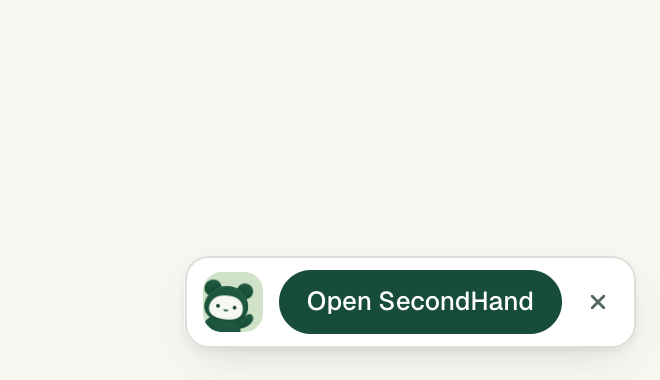
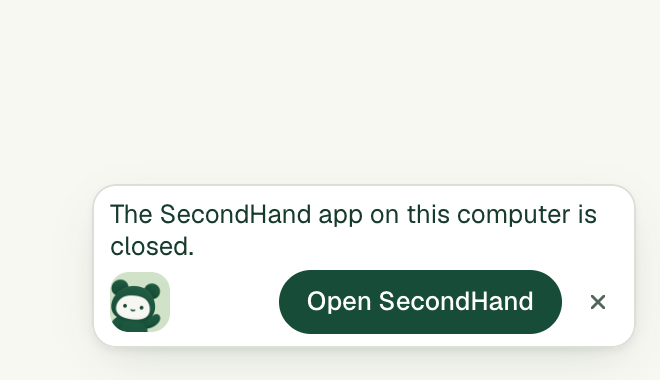
fix: say on the card that the app is locked or closed, as the side panel does
The locked and closed cards were a button alone. Two reviewers didn't know
what "Open SecondHand" meant on SecondHand's own card, or what was locked. The
card now says the side panel's sentence ("The SecondHand app on this computer is
locked." / "... is closed.") beside the button, and the locked card's button is
the side panel's "Unlock" instead of "Unlock SecondHand".

Changed region(s): [[0.1515, 0.6079, 0.9697, 0.9263], [0.1515, 0.5211, 0.9091, 0.6079], [0.1818, 0.4632, 0.9394, 0.4921]]

diff --git a/extension/strings.js b/extension/strings.js
@@ -24,7 +24,6 @@
     'widget.autofill': 'Autofill',
     'widget.autofillIowaTitle': 'Autofill fills your saved answers and continues where SecondHand can. Check every answer, your Social Security number, and the home address it picks before submitting.',
     'widget.autofillSiteTitle': 'Fill supported fields on this site once. Review every answer.',
-    'widget.unlock': 'Unlock SecondHand',
     'widget.stop': 'Stop',
     'widget.stopTitle': 'Stop Autofill. Nothing is erased.',
     'widget.stopNote': 'Stop erases nothing.',
@@ -407,7 +406,6 @@
     'widget.autofill': 'Autocompletar',
     'widget.autofillIowaTitle': 'Autocompletar llena las respuestas que usted guardó y continúa donde SecondHand puede. Revise cada respuesta, su número de Seguro Social y la dirección de casa que elige Autocompletar antes de enviar.',
     'widget.autofillSiteTitle': 'Llena una vez los campos compatibles de este sitio. Revise cada respuesta.',
-    'widget.unlock': 'Desbloquear SecondHand',
     'widget.stop': 'Detener',
     'widget.stopTitle': 'Detener el autocompletado. No se borra nada.',
     'widget.stopNote': 'Si lo detiene, no se borra nada.',
@@ -784,7 +782,6 @@
     'widget.autofill': 'Tự điền',
     'widget.autofillIowaTitle': 'Tự điền sẽ điền các câu trả lời bạn đã lưu và đi tiếp ở những chỗ SecondHand có thể. Hãy kiểm tra mọi câu trả lời, số An Sinh Xã Hội của bạn và địa chỉ nhà mà Tự điền chọn trước khi nộp.',
     'widget.autofillSiteTitle': 'Điền một lần các ô được hỗ trợ trên trang này. Hãy kiểm tra từng câu trả lời.',
-    'widget.unlock': 'Mở khóa SecondHand',
     'widget.stop': 'Dừng',
     'widget.stopTitle': 'Dừng Tự điền. Không có gì bị xóa.',
     'widget.stopNote': 'Dừng không xóa gì.',
@@ -1162,7 +1159,6 @@
     'widget.autofill': '自动填写',
     'widget.autofillIowaTitle': '自动填写会填写您保存的答案，并在 SecondHand 能继续的地方继续。提交前请核对每个答案、您的社会安全号码，以及自动填写选择的住家地址。',
     'widget.autofillSiteTitle': '在此网站上一次性填写支持的栏位。请核对每个答案。',
-    'widget.unlock': '解锁 SecondHand',
     'widget.stop': '停止',
     'widget.stopTitle': '停止自动填写。不会删除任何内容。',
     'widget.stopNote': '停止不会删除任何内容。',
@@ -1540,7 +1536,6 @@
     'widget.autofill': 'Remplir',
     'widget.autofillIowaTitle': 'Le remplissage inscrit les réponses que vous avez enregistrées et continue là où SecondHand le peut. Vérifiez chaque réponse, votre numéro de sécurité sociale et l’adresse de domicile qu’il choisit avant d’envoyer.',
     'widget.autofillSiteTitle': 'Remplir une fois les champs pris en charge sur ce site. Vérifiez chaque réponse.',
-    'widget.unlock': 'Déverrouiller SecondHand',
     'widget.stop': 'Arrêter',
     'widget.stopTitle': 'Arrêter le remplissage. Rien n’est effacé.',
     'widget.stopNote': 'Arrêter n’efface rien.',
@@ -1918,7 +1913,6 @@
     'widget.autofill': 'تعبئة تلقائية',
     'widget.autofillIowaTitle': 'تملأ التعبئة التلقائية الإجابات التي حفظتها وتتابع حيث يستطيع SecondHand. راجع كل إجابة ورقم الضمان الاجتماعي الخاص بك وعنوان السكن الذي تختاره التعبئة التلقائية قبل الإرسال.',
     'widget.autofillSiteTitle': 'تعبئة الحقول المدعومة في هذا الموقع مرة واحدة. راجع كل إجابة.',
-    'widget.unlock': 'فتح قفل SecondHand',
     'widget.stop': 'إيقاف',
     'widget.stopTitle': 'إيقاف التعبئة التلقائية. لا يُحذف أي شيء.',
     'widget.stopNote': 'الإيقاف لا يمسح شيئًا.',

diff --git a/extension/panel.js b/extension/panel.js
@@ -200,6 +200,9 @@
       if (working) return words(waitingForApp());
       if (note) return words(note, 120);
       if (!result) return !site ? readyLine() : languageTrouble ? t('widget.languageCheckFailed') : t('widget.siteReady', { host: hostOf(site.origin) });
+      // A locked or closed app is said as the side panel says it, beside the button that is the step.
+      if (result.state === 'locked') return t('desktop.locked');
+      if (result.state === 'offline') return t('desktop.notRunning');
       // What the worker reported, in the side panel's words, without the count of what is left: the link beside
       // it carries that. While Autofill is on, what Stop would do goes after it: on a page that waits for answers,
       // where SecondHand clicks Save and Continue once nothing is left, that Stop lets the reader check and
@@ -249,9 +252,9 @@
       $('widget-text').title = outdated ? statusText() : fixedText(details.filter(Boolean).join(' '), 240);
       // The status is always read to screen readers, and shown as a line whenever it says something the
       // buttons don't: on Iowa, what Autofill will do before it is clicked; then what it did and what it
-      // waits for; a problem; an outdated extension. Unlock and Open SecondHand say their own step, and
-      // another site's name before Autofill is no news.
-      const message = outdated || Boolean(note) || working || (result ? !locked && !closed : known && !site && Boolean(readyLine()));
+      // waits for; a locked or closed app; a problem; an outdated extension. Another site's name before
+      // Autofill is no news.
+      const message = outdated || Boolean(note) || working || Boolean(result) || (known && !site && Boolean(readyLine()));
       $('widget-text').classList.toggle('visually-hidden', !message);
       // The translated view is offered whenever the page is in another language, before and after Autofill.
       $('translate-offer').hidden = outdated || Boolean(note) || working || !known || !pageLanguage || pageLanguage === language;

diff --git a/extension/panel.html b/extension/panel.html
@@ -25,7 +25,7 @@
         <button id="details" class="widget-logo" type="button" data-i18n-title="widget.detailsTitle" data-i18n-aria-label="widget.detailsTitle"><img class="brand" src="icon-128.png" alt=""></button>
         <button id="need-you" class="widget-link" type="button" hidden></button>
         <button id="autofill" class="widget-primary" type="button" data-i18n="widget.autofill" data-i18n-title="widget.autofillIowaTitle"></button>
-        <button id="unlock" class="widget-primary" type="button" data-i18n="widget.unlock" hidden></button>
+        <button id="unlock" class="widget-primary" type="button" data-i18n="panel.unlock" hidden></button>
         <button id="open-app" class="widget-primary" type="button" data-i18n="desktop.open" hidden></button>
         <button id="stop" class="widget-primary" type="button" data-i18n="widget.stop" data-i18n-title="widget.stopTitle" hidden></button>
         <button id="restart" class="widget-primary" type="button" data-i18n="widget.restart" data-i18n-title="widget.restartTitle" hidden></button>
